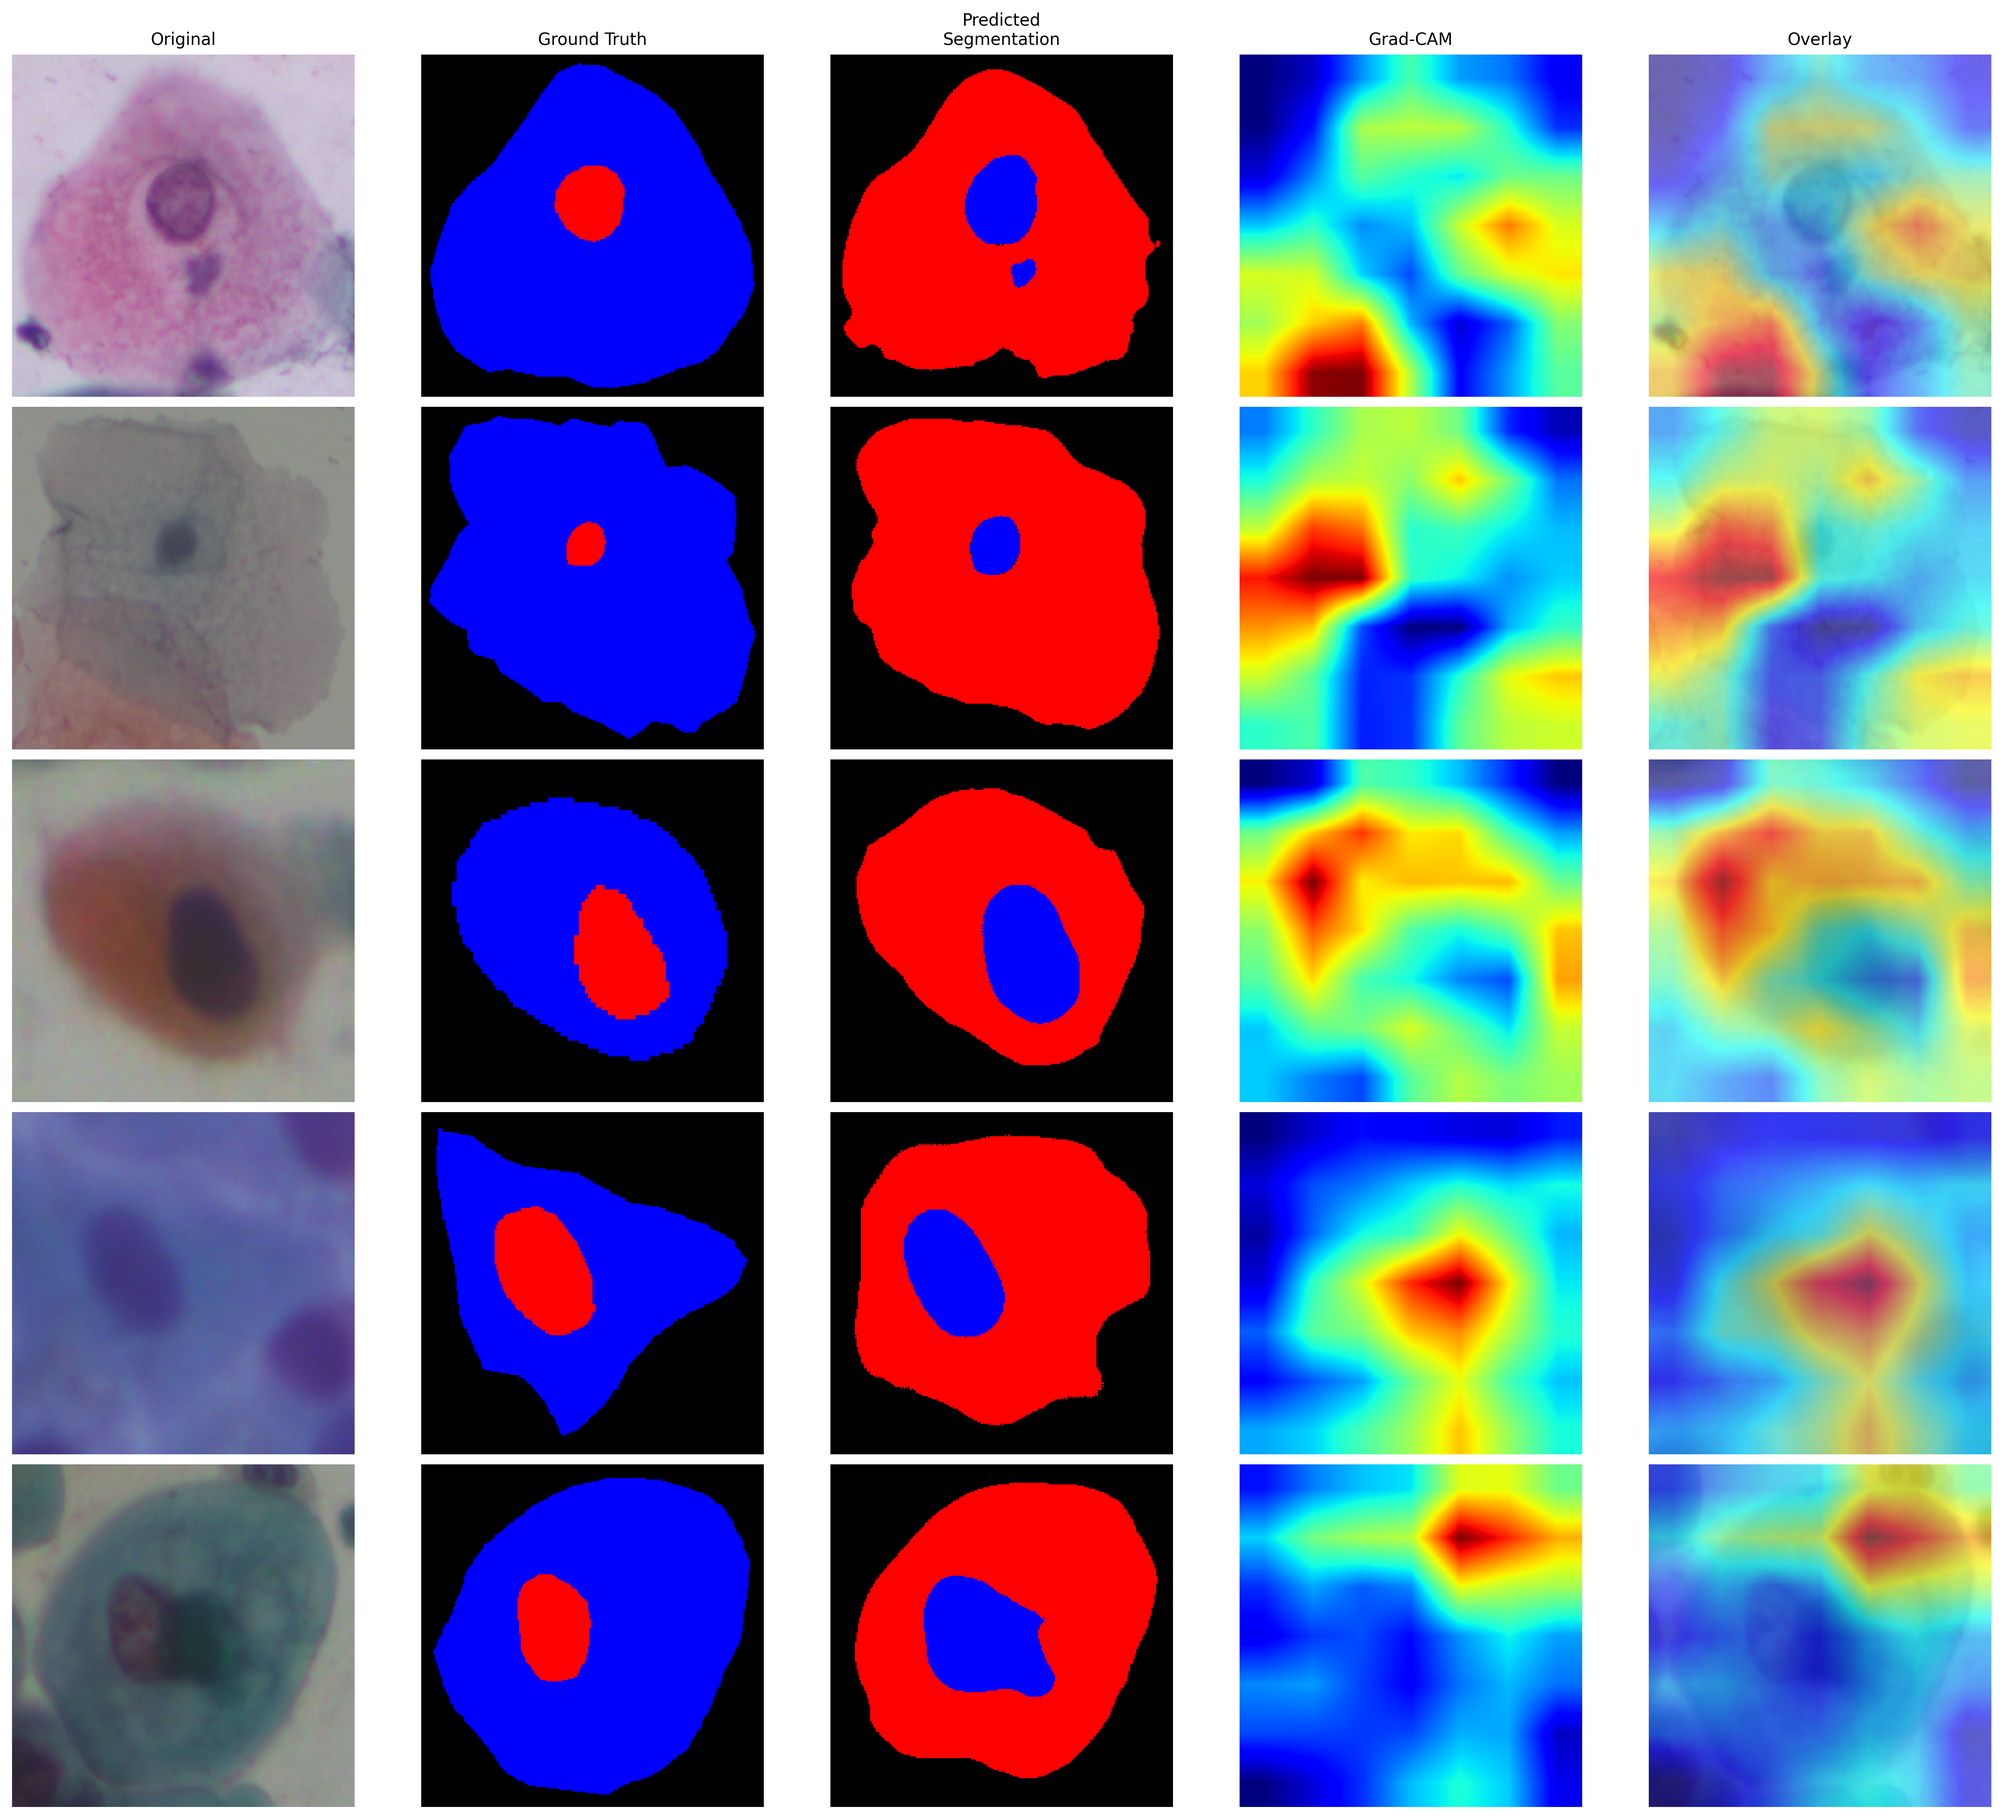
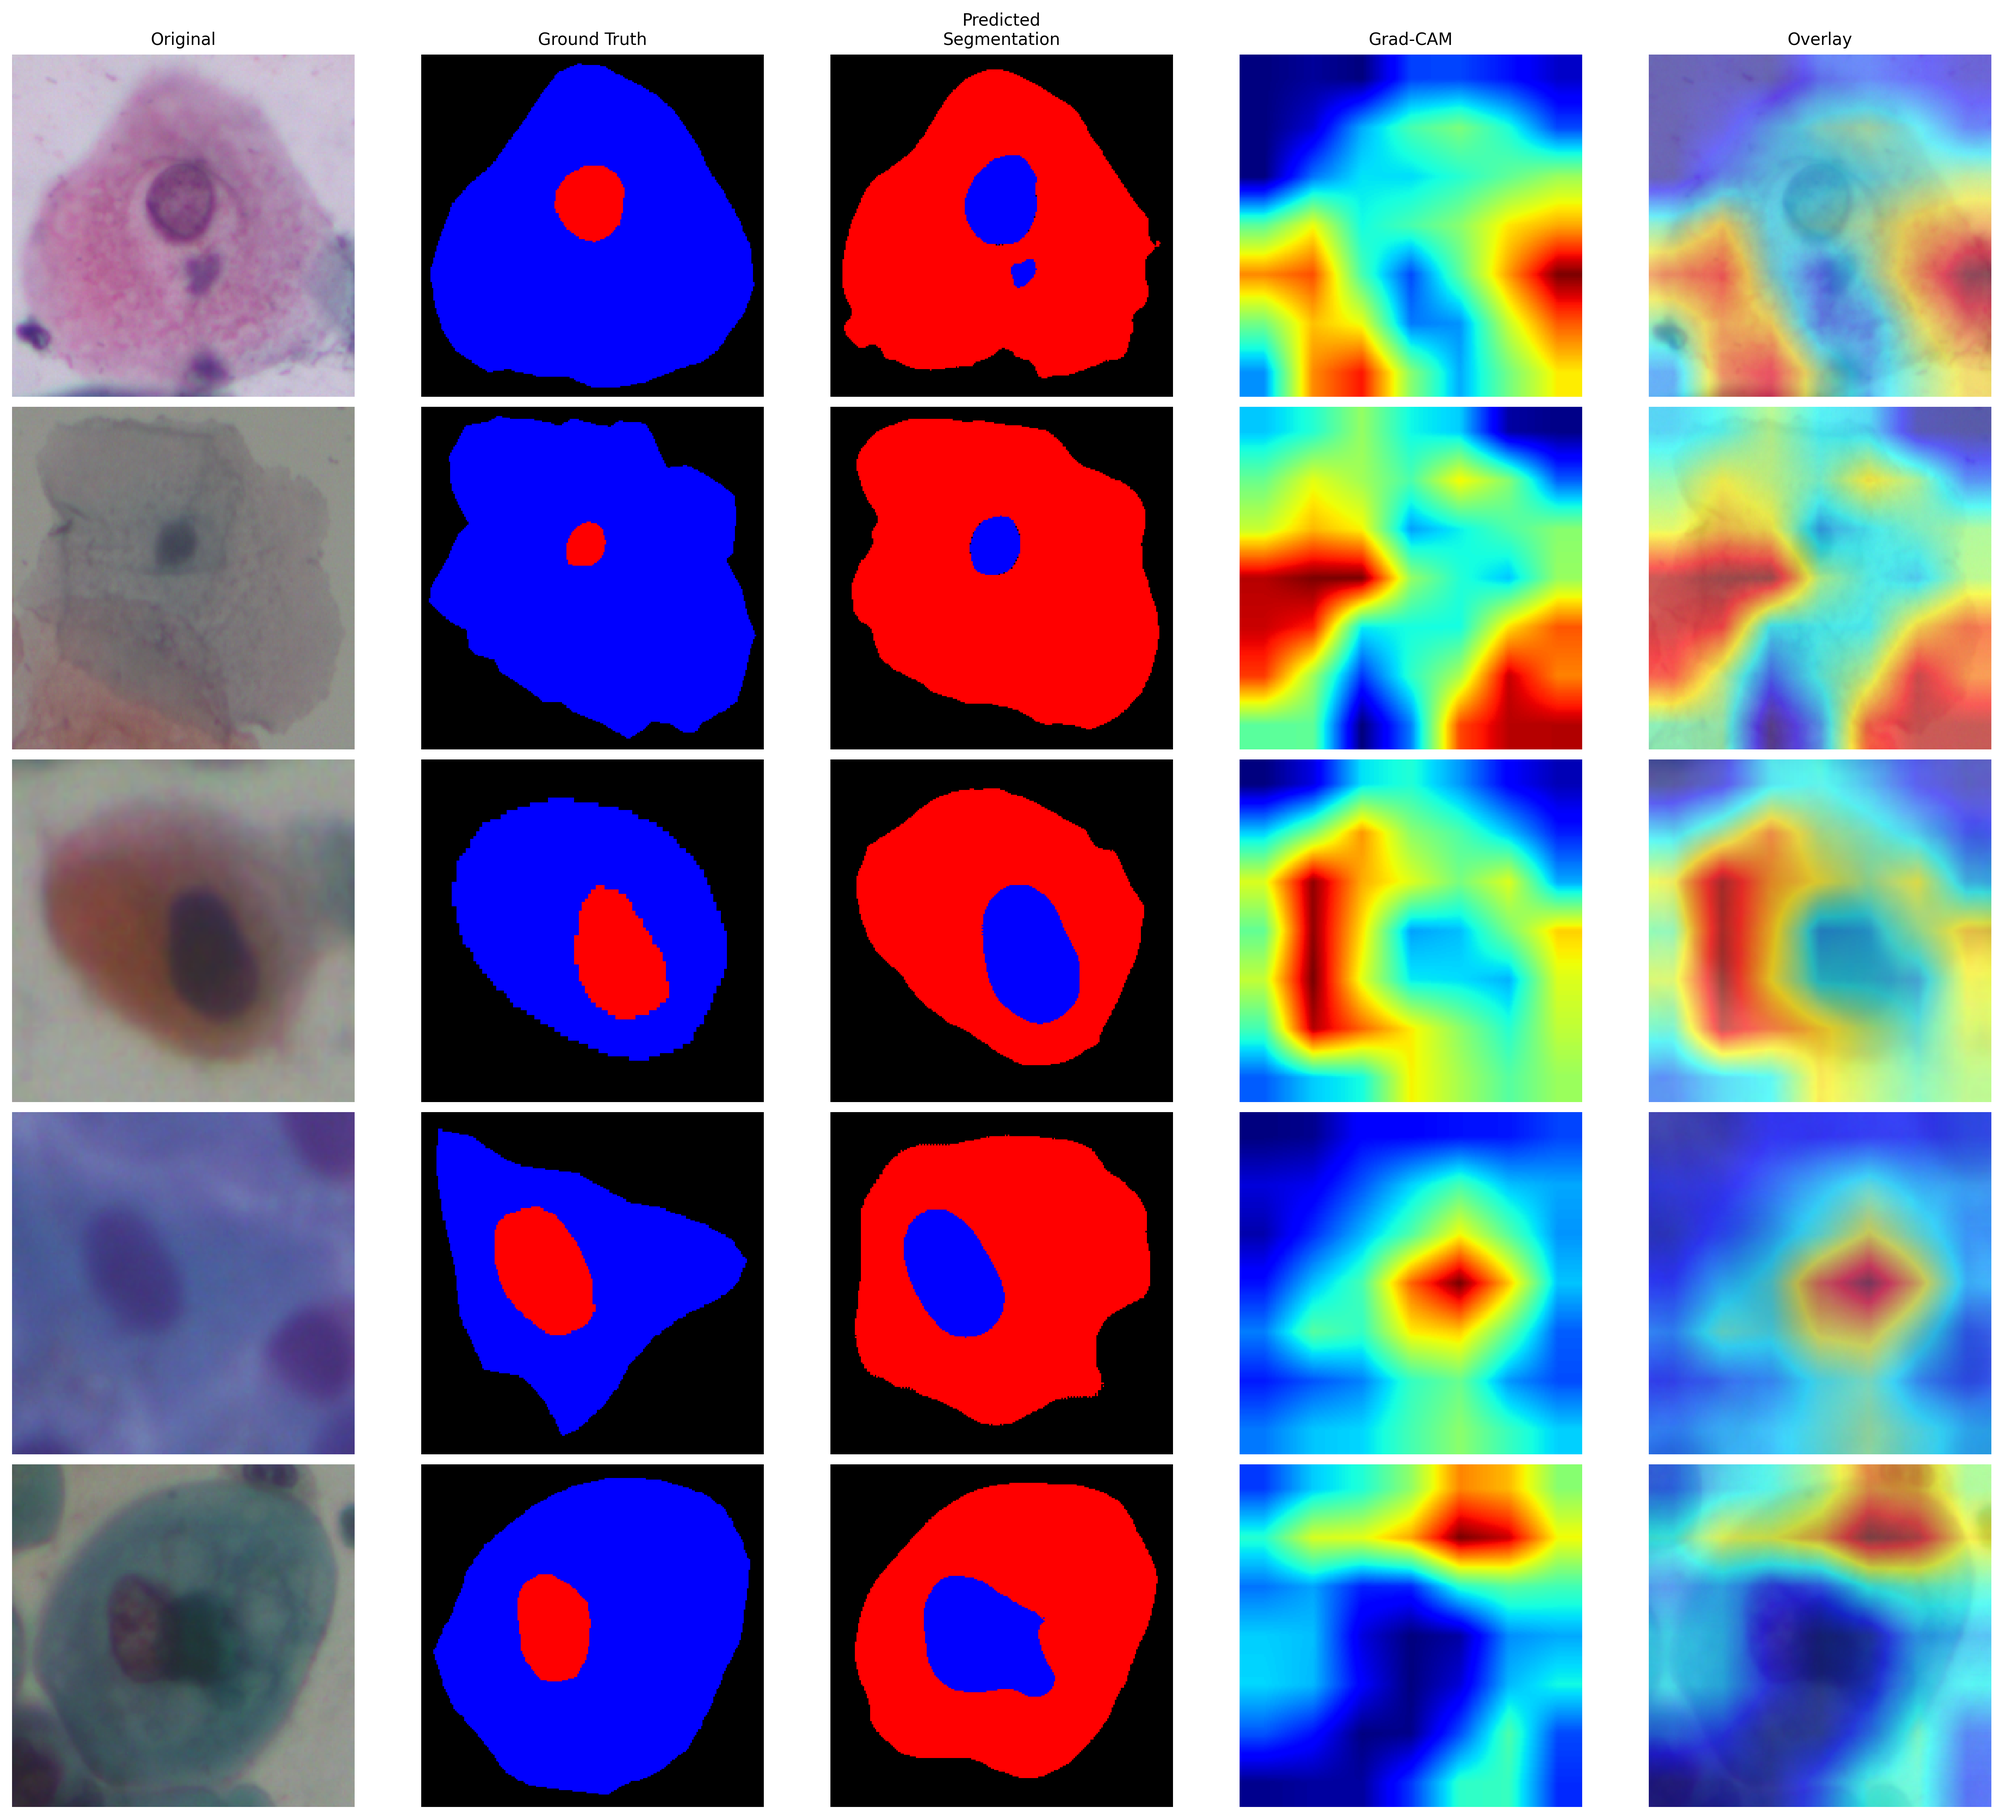
Treina modelo corretamente

Changed region(s): [[0.5936, 0.0311, 0.9998, 0.9951]]

diff --git a/train_mask_classifier.py b/train_mask_classifier.py
@@ -138,6 +138,31 @@ transforms_dict = {
     ])
 }
 
+# ==========================================
+# Check if masks exist
+# ==========================================
+if not os.path.exists(CELL_MASKS_DIR) or not os.path.exists(NUCLEUS_MASKS_DIR):
+    error_msg = f"""
+    ❌ ERRO: Máscaras não encontradas!
+    
+    O diretório de máscaras não existe:
+      - Cell masks: {CELL_MASKS_DIR}
+      - Nucleus masks: {NUCLEUS_MASKS_DIR}
+    
+    ✅ SOLUÇÃO: Execute o script de geração de máscaras ANTES deste:
+    
+        python3 generate_masks.py
+    
+    Isso irá gerar as máscaras usando o modelo U-Net salvo em 'unet_model.pth'
+    
+    Após gerar as máscaras, execute este script novamente:
+    
+        python3 train_mask_classifier.py
+    """
+    print(error_msg)
+    logger.error(error_msg)
+    raise FileNotFoundError(f"Mask directories not found. Please run 'python3 generate_masks.py' first.")
+
 logger.info("Loading 5-channel dataset with masks...")
 print("Carregando dataset de 5 canais...")
 dataset = SIPaKMeDMaskDataset(IMAGES_DIR, CELL_MASKS_DIR, NUCLEUS_MASKS_DIR, transforms_dict)
